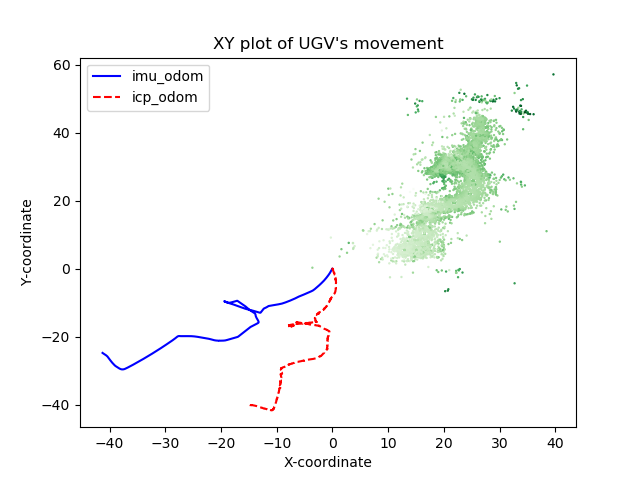
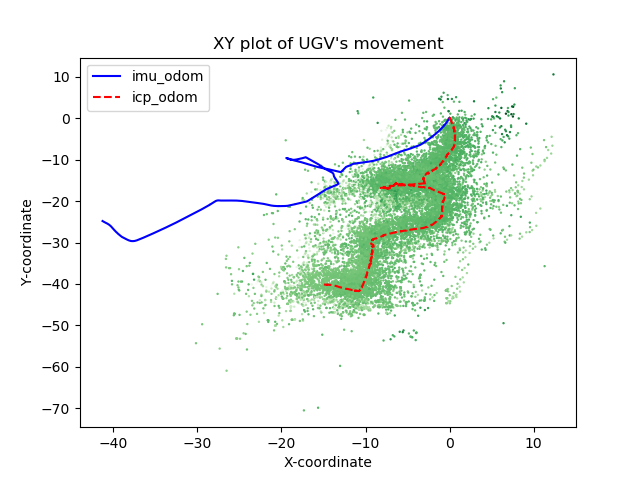
new origin for icp and imu

diff --git a/nodes/tf_reader.py b/nodes/tf_reader.py
@@ -30,7 +30,7 @@ def create_graphs(bag):
             odom.append([transform_imu.transform.translation.x, transform_imu.transform.translation.y,
                          transform_imu.transform.translation.z])
             saved_times.append(save_time)
-            if msg_number % 50 == 0:
+            if msg_number % 25 == 0:
                 msg = PointCloud2(*slots(msg))
                 cloud = np.array(list(read_points(msg)))
                 transform_map_os_sensor = buffer.lookup_transform_full("map", time, "os_sensor", time, "map",
@@ -43,6 +43,7 @@ def create_graphs(bag):
             continue
     icp = move_coordinates_to_the_origin(icp)
     odom = move_coordinates_to_the_origin(odom)
+    cloud_combined = move_coordinates_to_the_origin(cloud_combined)
     if len(cloud_combined) > 0:
         speeds = get_speeds_one_period(icp[:, 0], icp[:, 1], icp[:, 2], saved_times)
         start_of_moving, end_of_moving = find_start_and_end_of_moving(speeds, saved_times)
@@ -84,8 +85,7 @@ def create_graph_xy_and_point_cloud(cloud_combined, icp_x, icp_y, imu_x, imu_y):
     plt.ylabel('Y-coordinate')
     plt.title("XY plot of UGV's movement")
     combined_points = np.concatenate(cloud_combined, axis=1)
-    colors = transform_z_coordinates_to_color(combined_points[2, :])
-    ax.scatter(combined_points[0, :], combined_points[1, :], s=marker_size, c=colors, cmap='Greens')
+    ax.scatter(combined_points[0, :], combined_points[1, :], s=marker_size, c=combined_points[2, :], cmap='Greens')
     ax.plot(imu_x, imu_y, color='blue', label='imu_odom')
     ax.plot(icp_x, icp_y, color='red', linestyle='--', label='icp_odom')
     plt.legend()
